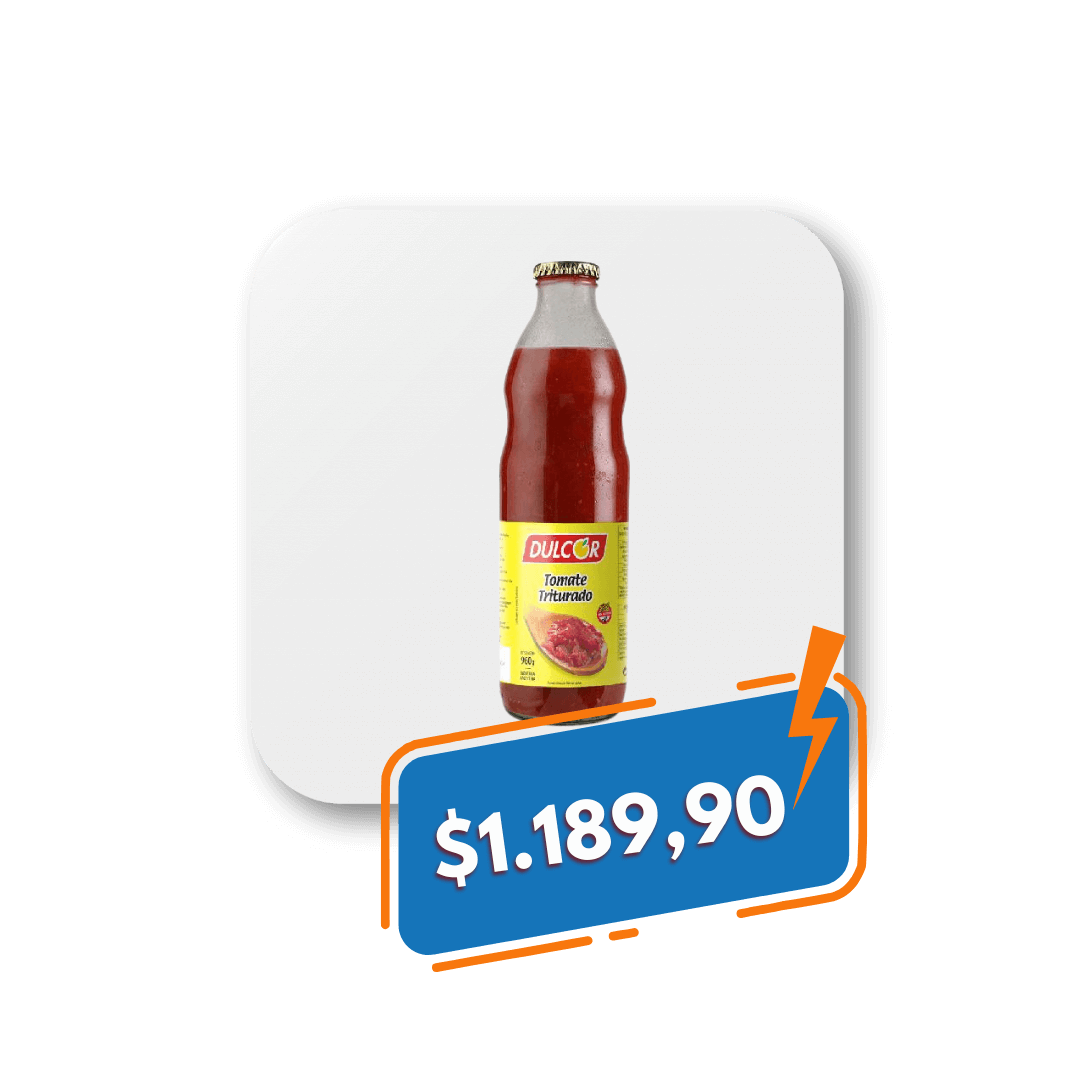
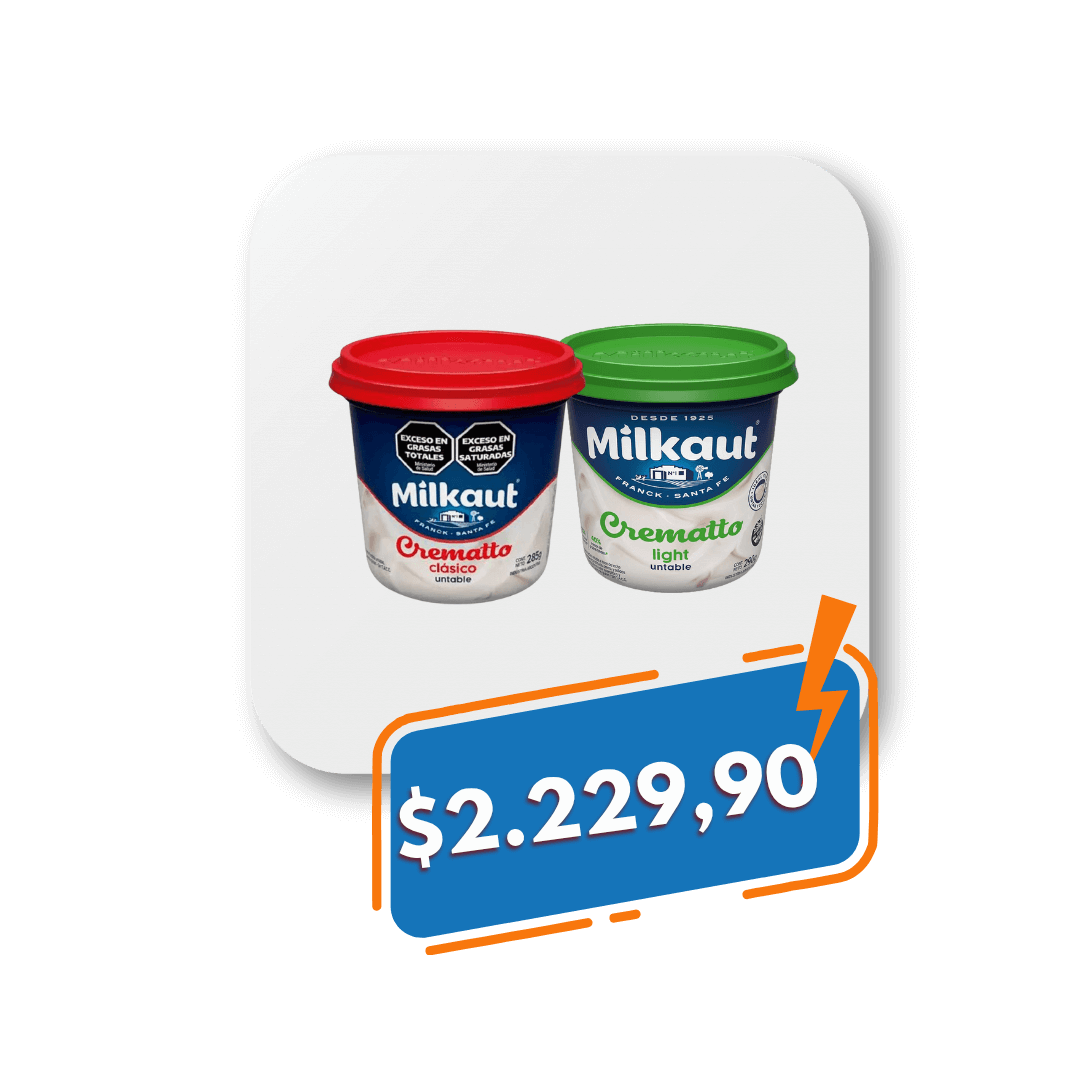
Actualizando ofertas

Changed region(s): [[0.2444, 0.1528, 0.8556, 0.9167]]

diff --git a/src/components/atoms/carousel/Carousel.jsx b/src/components/atoms/carousel/Carousel.jsx
@@ -23,39 +23,33 @@ export const Carousel = () => {
     <Swiper {...config} className={style.swiper}>
       <SwiperSlide className={style.swiperSlide}>
         <div className={style.title}>
-          <p>MORTADELA PALADINI x Kg</p>
+          <p>JABON PARA ROPA HEROE 800ml</p>
         </div>
         <img src="/assets/ofertas/1.png" alt="oferta1" />
       </SwiperSlide>
       <SwiperSlide className={style.swiperSlide}>
         <div className={style.title}>
-          <p>YERBA AMANDA 500gr</p>
+          <p>YOGURT BEBIBLE MILKAUT</p>
         </div>
         <img src="/assets/ofertas/2.png" alt="oferta2" />
       </SwiperSlide>
       <SwiperSlide className={style.swiperSlide}>
         <div className={style.title}>
-          <p>SALCHICHAS FELA x6u</p>
+          <p>LECHE LARGA VIDA FRANSAFE</p>
         </div>
         <img src="/assets/ofertas/3.png" alt="oferta3" />
       </SwiperSlide>
       <SwiperSlide className={style.swiperSlide}>
         <div className={style.title}>
-          <p>LECHE LARGA VIDA FRANSAFE</p>
+          <p>FIAMBRE DE POLLO DON ALEJANDRO</p>
         </div>
         <img src="/assets/ofertas/4.png" alt="oferta4" />
       </SwiperSlide>
       <SwiperSlide className={style.swiperSlide}>
         <div className={style.title}>
-          <p>TOMATE TRITURADO DULCOR</p>
+          <p>QUESO UNTABLE MILKAUAT 285gr</p>
         </div>
-        <img src="/assets/ofertas/5.png" alt="oferta6" />
-      </SwiperSlide>
-      <SwiperSlide className={style.swiperSlide}>
-        <div className={style.title}>
-          <p>HARINA TASSARA</p>
-        </div>
-        <img src="/assets/ofertas/6.png" alt="oferta6" />
+        <img src="/assets/ofertas/5.png" alt="oferta5" />
       </SwiperSlide>
       <SwiperSlide className={style.swiperSlide}>
         <div className={style.title}>

diff --git a/src/components/pages/ofertas/OfertasPage.jsx b/src/components/pages/ofertas/OfertasPage.jsx
@@ -38,7 +38,7 @@ export const OfertasPage = () => {
             <div className={style.portada}>
               <img src="\assets\images\torta-portada.png" alt="sign" />
               <div className={style.ledesma}>
-                <img src="\assets\ofertas\5.webp" alt="sign"/>
+                <img src="\assets\ofertas\7.webp" alt="sign"/>
                 <img src="\assets\images\32.png" alt="sign"/>
               </div>
             </div>
